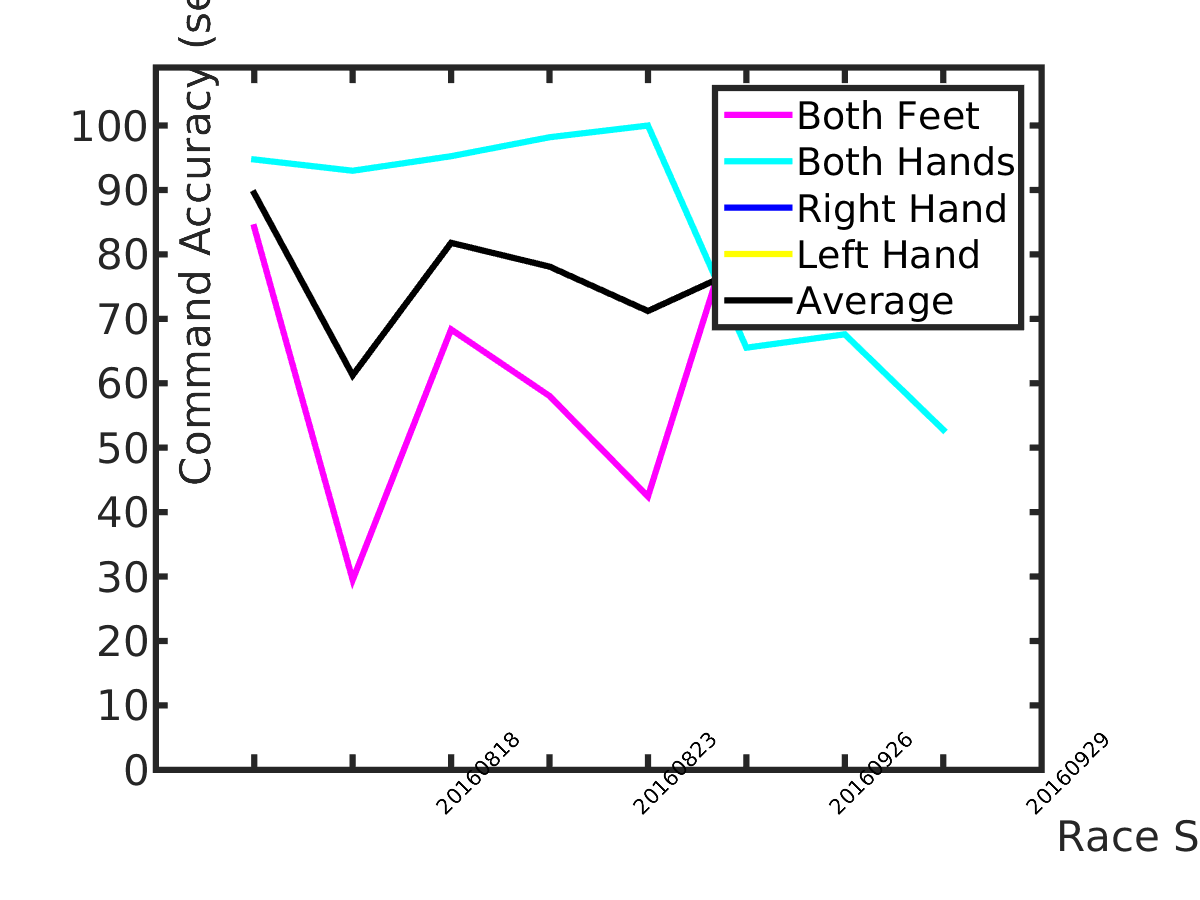
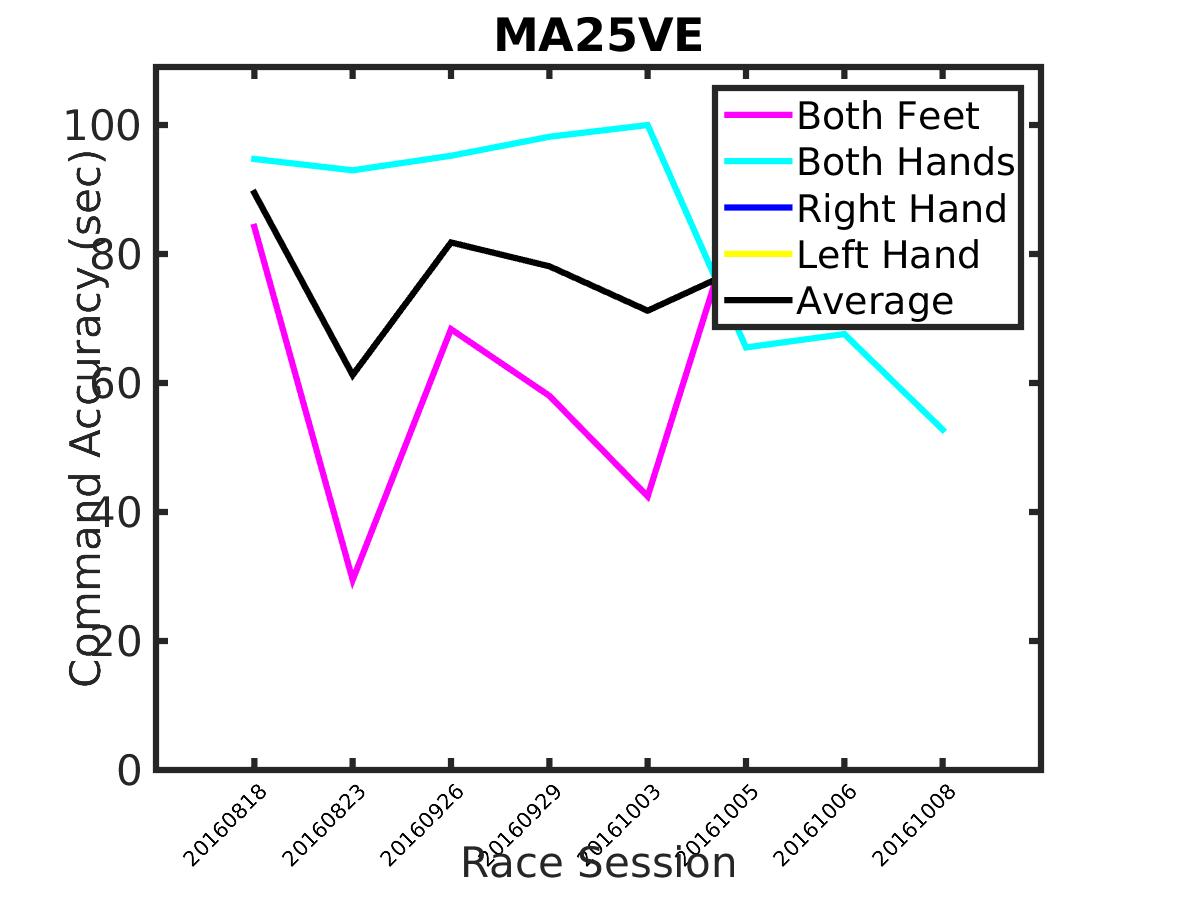
Finished command accuracy for online runs

diff --git a/modules/cnbicyb_commacc.m b/modules/cnbicyb_commacc.m
@@ -1,0 +1,68 @@
+clearvars; clc;
+
+%subject = 'AN14VE';
+subject = 'MA25VE';
+
+pattern     = '.mi.';
+modality    = 'online';
+
+experiment  = 'cybathlon';
+datapath    = [pwd '/analysis/'];
+figuredir  = './figures/';
+
+CueTypeId = [769 770 771 773 783];
+CueTypeLb = {'LeftHand', 'RightHand', 'BothFeet', 'BothHands', 'Rest'};
+
+HitMissTypeId = [897 898 899];
+HitMissTypeLb = {'Hit','Miss', 'Timeout'};
+
+%% Get datafiles
+[Files, NumFiles] = cnbiutil_getfile(datapath, '.mat', [subject '*' modality '*' pattern]);
+
+%% Concatenate data
+cnbiutil_bdisp(['[io] - Import psd datafiles (' modality ')']);
+[U, events, labels, settings] = cnbiutil_concatenate_data(Files);
+DataLength  = size(U, 1);
+
+Dk = labels.Dk;
+Dl = labels.Dl;
+Days    = unique(Dk);
+NumDays = length(Days);
+
+%% Extract events
+cnbiutil_bdisp('[proc] - Extract events');
+[CueLb, CueEvents] = cnbiproc_get_event(CueTypeId, DataLength, events.POS, events.TYP, events.DUR);
+[HitMissLb, HitMissEvents] = cnbiproc_get_event(HitMissTypeId, DataLength, events.POS, events.TYP, events.DUR);
+
+%% Compute overall command accuracy
+for c=1:length(CueTypeId)
+    CommAcc(c) = 100*sum(CueEvents.TYP==CueTypeId(c) & HitMissEvents.TYP==897)/sum(CueEvents.TYP==CueTypeId(c));
+end
+
+
+%% Compute discriminancy per day
+
+for dId = 1:NumDays
+    
+    SesTrialInd = find(Dk(CueEvents.POS)==dId);
+    for c=1:length(CueTypeId)
+        CommAccSes(c,dId) = 100*sum(CueEvents.TYP(SesTrialInd)==CueTypeId(c) & HitMissEvents.TYP(SesTrialInd)==897)/sum(CueEvents.TYP(SesTrialInd)==CueTypeId(c));
+    end
+    
+end
+
+%% Plotting discriminancy map
+fig1 = figure;
+cnbifig_set_position(fig1, 'All');
+plot(1:NumDays,CommAccSes(1,:),'y',1:NumDays,CommAccSes(2,:),'b',1:NumDays,CommAccSes(3,:),'m',1:NumDays,CommAccSes(4,:),'c',1:NumDays,CommAccSes(5,:),'k',1:NumDays,nanmean(CommAccSes,1),'--g','LineWidth',3);
+legend({'Left Hand','Right Hand','Both Feet','Both Hands','Rest','Average'});
+xlabel('Feedback Session','FontSize',20,'LineWidth',3);
+ylabel('Command Accuracy (sec)','FontSize',20,'LineWidth',3);
+title(subject);
+axis([0 NumDays+1 0 109]);
+set(gca,'FontSize',20,'LineWidth',3);
+set(gca,'XTick',unique(Dk));
+set(gca,'XTickLabel',Dl);
+xticklabel_rotate([],45,[])
+
+cnbifig_export(fig1, [figuredir '/' subject '.commacc.' modality '.png'], '-png');

diff --git a/modules/cnbicyb_time_race.m b/modules/cnbicyb_time_race.m
@@ -1,7 +1,7 @@
 clearvars; clc; 
 
-%subject = 'AN14VE';
-subject = 'MA25VE';
+subject = 'AN14VE';
+%subject = 'MA25VE';
 
 pattern     = '.mi.';
 modality    = 'race';
@@ -9,7 +9,8 @@ modality    = 'race';
 experiment  = 'cybathlon';
 %datapath    = ['/mnt/data/Research/' experiment '/' subject '/' subject '_racemat/'];
 % datapath    = '/home/sperdikis/Desktop/tst/AN14VE/AN14VE_RaceMat/';
-datapath    = '/home/sperdikis/Desktop/tst/MA25VE/MA25VE_RaceMat/';
+%datapath    = '~/Desktop/tst/MA25VE/MA25VE_racemat/';
+datapath    = '~/Desktop/tst/AN14VE/AN14VE_racemat/';
 figuredir  = './figures/';
 savedir  = '/analysis/';
 

diff --git a/cnbicyb_processing_spectrogram.m b/cnbicyb_processing_spectrogram.m
@@ -1,10 +1,10 @@
 clearvars; clc;
 
-%subject = 'MA25VE';
-subject = 'AN14VE';
+subject = 'MA25VE';
+%subject = 'AN14VE';
 
-%identifiers = {'.*line.mi.', '.gdf'};
-identifiers = {'.race.mi.',  '.mat'};
+identifiers = {'.*line.mi.', '.gdf'};
+%identifiers = {'.race.mi.',  '.mat'};
 
 pattern     = identifiers{1};
 extension   = identifiers{2};

diff --git a/modules/cnbicyb_commacc_race.m b/modules/cnbicyb_commacc_race.m
@@ -173,4 +173,4 @@ set(gca,'XTick',unique(Dk));
 set(gca,'XTickLabel',Dl);
 xticklabel_rotate([],45,[])
 
-cnbifig_export(fig1, [figuredir '/' subject '.commacc.' modality '.png'], '-png');
+cnbifig_export(fig1, [figuredir '/' subject '.commaccrace.' modality '.png'], '-png');
